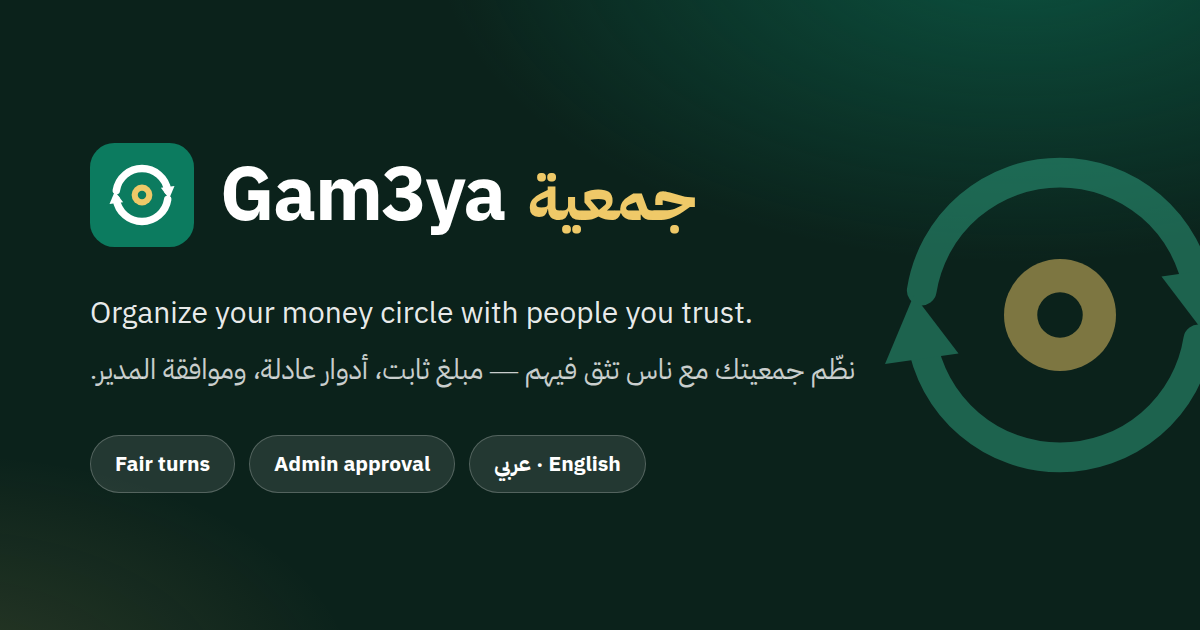
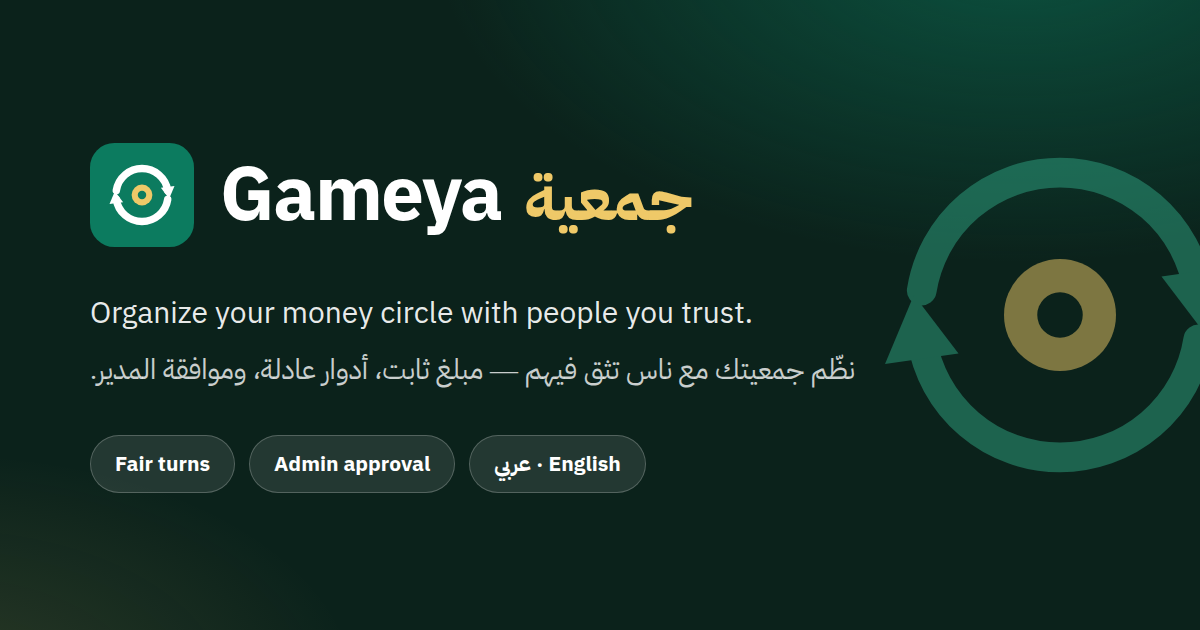
Rebrand Gameya: rename from Gam3ya across app, metadata, and services
Rename the product to Gameya (English) everywhere: UI strings in both
languages' Latin name, page title and share metadata, the regenerated
Open Graph card, reminder email/SMS copy, the authenticator enrollment
name, README, and package name. The Arabic name جمعية is unchanged, and
localStorage preference keys are kept stable so existing visitors retain
their language/theme choices. The Netlify site moves to
gameya.netlify.app (share links updated to match).

Claude-Session: https://claude.ai/code/session_01C297hAR4Wnjiy8GxVdoYFC

Changed region(s): [[0.3083, 0.2413, 0.5858, 0.3921]]

diff --git a/supabase/functions/payment-reminders/index.ts b/supabase/functions/payment-reminders/index.ts
@@ -1,4 +1,4 @@
-// Gam3ya payment reminders — runs daily via pg_cron.
+// Gameya payment reminders — runs daily via pg_cron.
 // From the 2nd day of each scheduled month, every payer who hasn't confirmed
 // their payment gets a reminder (email + SMS when providers are configured),
 // and each group admin gets an overdue summary. Everything is logged to
@@ -28,11 +28,11 @@ Deno.serve(async (req) => {
   const overdue = (data ?? []) as Overdue[];
 
   const resendKey = Deno.env.get("RESEND_API_KEY") ?? "";
-  const emailFrom = Deno.env.get("EMAIL_FROM") ?? "Gam3ya <onboarding@resend.dev>";
+  const emailFrom = Deno.env.get("EMAIL_FROM") ?? "Gameya <onboarding@resend.dev>";
   const twilioSid = Deno.env.get("TWILIO_ACCOUNT_SID") ?? "";
   const twilioToken = Deno.env.get("TWILIO_AUTH_TOKEN") ?? "";
   const twilioFrom = Deno.env.get("TWILIO_FROM") ?? "";
-  const appUrl = Deno.env.get("APP_URL") ?? "https://gam3ya-app.netlify.app";
+  const appUrl = Deno.env.get("APP_URL") ?? "https://gameya.netlify.app";
 
   // Already-sent (kind|channel|group|user|month) for today — don't repeat.
   // "Today" is Toronto time, matching the app and the overdue_payers() SQL.
@@ -100,7 +100,7 @@ Deno.serve(async (req) => {
     await once(["overdue_user", "email", o.group_id, o.user_id, o.month], async () => {
       const res = await sendEmail(
         o.email,
-        `Gam3ya: payment overdue for ${o.group_name} — قسط الجمعية متأخر`,
+        `Gameya: payment overdue for ${o.group_name} — قسط الجمعية متأخر`,
         `<p>مرحباً ${o.user_name}،</p>
          <p>قسطك الشهري <b>${money}</b> لجمعية «${o.group_name}» عن شهر ${o.month} لسه متسجلش.
          من فضلك حوّل المبلغ وسجّل الدفع في التطبيق — التذكيرات بتقف أول ما تسجّل.</p>
@@ -115,7 +115,7 @@ Deno.serve(async (req) => {
     await once(["overdue_user", "sms", o.group_id, o.user_id, o.month], async () => {
       const res = await sendSms(
         o.phone,
-        `Gam3ya: your payment of ${money} for "${o.group_name}" (${o.month}) is overdue. ` +
+        `Gameya: your payment of ${money} for "${o.group_name}" (${o.month}) is overdue. ` +
         `Please send it and mark it paid in the app: ${appUrl}`,
       );
       await log({ ...base, channel: "sms", ...res });
@@ -147,7 +147,7 @@ Deno.serve(async (req) => {
       if (!adminProfile?.email) return;
       const res = await sendEmail(
         adminProfile.email,
-        `Gam3ya admin alert: ${items.length} unconfirmed payment(s) — ${groups}`,
+        `Gameya admin alert: ${items.length} unconfirmed payment(s) — ${groups}`,
         `<p>Hi ${adminProfile.name}, the following members have not confirmed their
          payment for ${month}:</p>
          <ul>${lines.map((l) => `<li>${l}</li>`).join("")}</ul>

diff --git a/index.html b/index.html
@@ -3,7 +3,7 @@
   <head>
     <meta charset="UTF-8" />
     <meta name="viewport" content="width=device-width, initial-scale=1.0, viewport-fit=cover" />
-    <title>Gam3ya — جمعية</title>
+    <title>Gameya — جمعية</title>
     <meta name="description" content="نظّم جمعيتك مع ناس تثق فيهم — مبلغ شهري ثابت، أدوار عادلة، وموافقة المدير. Organize your money circle with people you trust: fixed monthly amounts, fair turns, admin-approved members." />
 
     <!-- Icons -->
@@ -14,18 +14,18 @@
 
     <!-- Share preview (WhatsApp, social) -->
     <meta property="og:type" content="website" />
-    <meta property="og:site_name" content="Gam3ya" />
-    <meta property="og:title" content="Gam3ya — جمعية" />
+    <meta property="og:site_name" content="Gameya" />
+    <meta property="og:title" content="Gameya — جمعية" />
     <meta property="og:description" content="نظّم جمعيتك مع ناس تثق فيهم — مبلغ شهري ثابت وأدوار عادلة. Organize your rotating savings circle: fixed monthly amounts, fair turns, admin-approved members." />
-    <meta property="og:image" content="https://gam3ya-app.netlify.app/og-image.png" />
+    <meta property="og:image" content="https://gameya.netlify.app/og-image.png" />
     <meta property="og:image:width" content="1200" />
     <meta property="og:image:height" content="630" />
     <meta property="og:locale" content="ar_EG" />
     <meta property="og:locale:alternate" content="en_US" />
     <meta name="twitter:card" content="summary_large_image" />
-    <meta name="twitter:title" content="Gam3ya — جمعية" />
+    <meta name="twitter:title" content="Gameya — جمعية" />
     <meta name="twitter:description" content="Organize your rotating savings circle with people you trust. نظّم جمعيتك مع ناس تثق فيهم." />
-    <meta name="twitter:image" content="https://gam3ya-app.netlify.app/og-image.png" />
+    <meta name="twitter:image" content="https://gameya.netlify.app/og-image.png" />
 
     <!-- Fonts: one family that treats Arabic and Latin as equals -->
     <link rel="preconnect" href="https://fonts.googleapis.com" />

diff --git a/src/backend/supabaseStore.js b/src/backend/supabaseStore.js
@@ -45,7 +45,7 @@ async function refresh() {
   ]);
   const firstError = [profiles, groups, members, requests, payments, changeReqs].find((r) => r.error)?.error;
   if (firstError) {
-    console.error('Gameea refresh failed:', firstError.message);
+    console.error('Gameya refresh failed:', firstError.message);
     db = { ...db, loading: false };
     notify();
     return;
@@ -117,7 +117,7 @@ const scheduleRefresh = () => {
 // the true server state, so a failed optimistic action self-corrects.
 async function run(promise) {
   const { error } = await promise;
-  if (error) console.error('Gameea mutation failed:', error.message);
+  if (error) console.error('Gameya mutation failed:', error.message);
   scheduleRefresh();
   if (error) throw new Error(error.message);
 }
@@ -267,7 +267,7 @@ export async function mfaEnroll() {
       await sb.auth.mfa.unenroll({ factorId: f.id }).catch(() => {});
     }
   }
-  const { data, error } = await sb.auth.mfa.enroll({ factorType: 'totp', friendlyName: 'Gam3ya' });
+  const { data, error } = await sb.auth.mfa.enroll({ factorType: 'totp', friendlyName: 'Gameya' });
   if (error) throw new Error(error.message);
   return { factorId: data.id, qr: data.totp.qr_code, secret: data.totp.secret };
 }
@@ -295,7 +295,7 @@ export async function createGroup({ name, description, amount, currency, maxMemb
   }).select().single();
   if (error) throw new Error(error.message);
   const { error: memberError } = await sb.from('group_members').insert({ group_id: data.id, user_id: adminId });
-  if (memberError) console.error('Gam3ya: admin membership insert failed:', memberError.message);
+  if (memberError) console.error('Gameya: admin membership insert failed:', memberError.message);
   // Await the refresh so the caller can navigate straight to the new group
   await refresh();
   return { id: data.id };

diff --git a/src/i18n.js b/src/i18n.js
@@ -3,12 +3,12 @@ export const S = {
   en: {
     dir: 'ltr',
     locale: 'en',
-    appName: 'Gam3ya',
+    appName: 'Gameya',
     appNameAr: 'جمعية',
     tagline: 'Organize your money circle with people you trust',
     auth: {
-      welcome: 'Welcome to Gameea',
-      intro: 'A Gameea is a rotating savings circle: every month, all members pay a fixed amount to one member, taking turns until everyone has had their month.',
+      welcome: 'Welcome to Gameya',
+      intro: 'A Gameya is a rotating savings circle: every month, all members pay a fixed amount to one member, taking turns until everyone has had their month.',
       loginTitle: 'Log in to your account',
       registerTitle: 'Create your account',
       firstName: 'First name', lastName: 'Last name',
@@ -94,8 +94,8 @@ export const S = {
       onlyAdminCreates: 'New groups are created by the platform admin.',
     },
     create: {
-      title: 'Create a new Gameea',
-      name: 'Group name', namePh: 'e.g. Family Gameea 2026',
+      title: 'Create a new Gameya',
+      name: 'Group name', namePh: 'e.g. Family Gameya 2026',
       desc: 'Description (optional)', descPh: 'What is this group about? Who is it for?',
       amount: 'Monthly amount per member',
       maxMembers: 'Max members (= number of months)',
@@ -187,7 +187,7 @@ export const S = {
     dir: 'rtl',
     locale: 'ar-EG',
     appName: 'جمعية',
-    appNameAr: 'Gam3ya',
+    appNameAr: 'Gameya',
     tagline: 'نظّم جمعيتك مع ناس تثق فيهم',
     auth: {
       welcome: 'أهلاً بيك في جمعية',

diff --git a/src/styles.css b/src/styles.css
@@ -1,4 +1,4 @@
-/* ─── Gam3ya design system ────────────────────────────────────────────────────
+/* ─── Gameya design system ────────────────────────────────────────────────────
    Tokens first: the bare :root carries the complete light palette; dark
    redefines tokens only — via prefers-color-scheme for the un-stamped
    "system" state, and via [data-theme="dark"] for the explicit toggle.

diff --git a/src/components/ui.jsx b/src/components/ui.jsx
@@ -2,7 +2,7 @@ import { useEffect, useState } from 'react';
 
 // ─── Brand mark (same drawing as public/favicon.svg) ──────────────────────────
 export const Logo = ({ size = 34 }) => (
-  <svg width={size} height={size} viewBox="0 0 64 64" role="img" aria-label="Gam3ya">
+  <svg width={size} height={size} viewBox="0 0 64 64" role="img" aria-label="Gameya">
     <rect width="64" height="64" rx="15" fill="#0C7B5F" />
     <g fill="none" stroke="#FFFFFF" strokeWidth="4.6" strokeLinecap="round">
       <path d="M16.2 29.2 A16 16 0 0 1 47.8 29.2" />

diff --git a/README.md b/README.md
@@ -1,6 +1,6 @@
-# Gam3ya — جمعية
+# Gameya — جمعية
 
-A bilingual (Arabic-first, RTL + English) web app for organizing a **Gam3ya
+A bilingual (Arabic-first, RTL + English) web app for organizing a **Gameya
 (جمعية)** — the Egyptian rotating savings circle. A group of people who trust
 each other agree on a fixed monthly amount; every month all members pay that
 amount to one member, taking turns until every member has had their payout month.
@@ -54,7 +54,7 @@ The app has two backends behind the same code:
   `update public.profiles set role = 'admin' where email = 'you@example.com';`
 - **Create a group** — whoever creates a group becomes its **admin** and defines:
   - the fixed monthly amount and currency (EGP, USD, EUR, SAR, AED)
-  - the **max number of members** (which equals the number of months the Gam3ya runs)
+  - the **max number of members** (which equals the number of months the Gameya runs)
   - the first payout month
 - **Join with admin approval** — members ask to join; the group admin gives the
   final OK (approve / reject) for every request. Full groups can't be joined.
@@ -118,7 +118,7 @@ Delivery is activated by setting these edge-function secrets
 | `CRON_SECRET` | Shared secret the cron job authenticates with (required) |
 | `APP_URL` | Link included in messages |
 | `RESEND_API_KEY` | [resend.com](https://resend.com) API key — activates email |
-| `EMAIL_FROM` | Verified sender, e.g. `Gam3ya <alerts@yourdomain.com>` |
+| `EMAIL_FROM` | Verified sender, e.g. `Gameya <alerts@yourdomain.com>` |
 | `TWILIO_ACCOUNT_SID` / `TWILIO_AUTH_TOKEN` / `TWILIO_FROM` | [twilio.com](https://twilio.com) credentials + sending number — activates SMS |
 
 Without provider keys the job still runs: in-app alerts work and the log
@@ -170,7 +170,7 @@ npm run build   # output in dist/
 │   ├── App.jsx                   # Shell: navbar, language toggle, routing
 │   ├── store.js                  # Data layer facade — picks Supabase or demo mode
 │   ├── backend/
-│   │   ├── helpers.js            # Gam3ya rules shared by both backends
+│   │   ├── helpers.js            # Gameya rules shared by both backends
 │   │   ├── supabaseStore.js      # Real backend: Supabase auth + Postgres + realtime
 │   │   └── localStore.js         # Demo backend: localStorage
 │   ├── i18n.js                   # English + Egyptian Arabic translations
